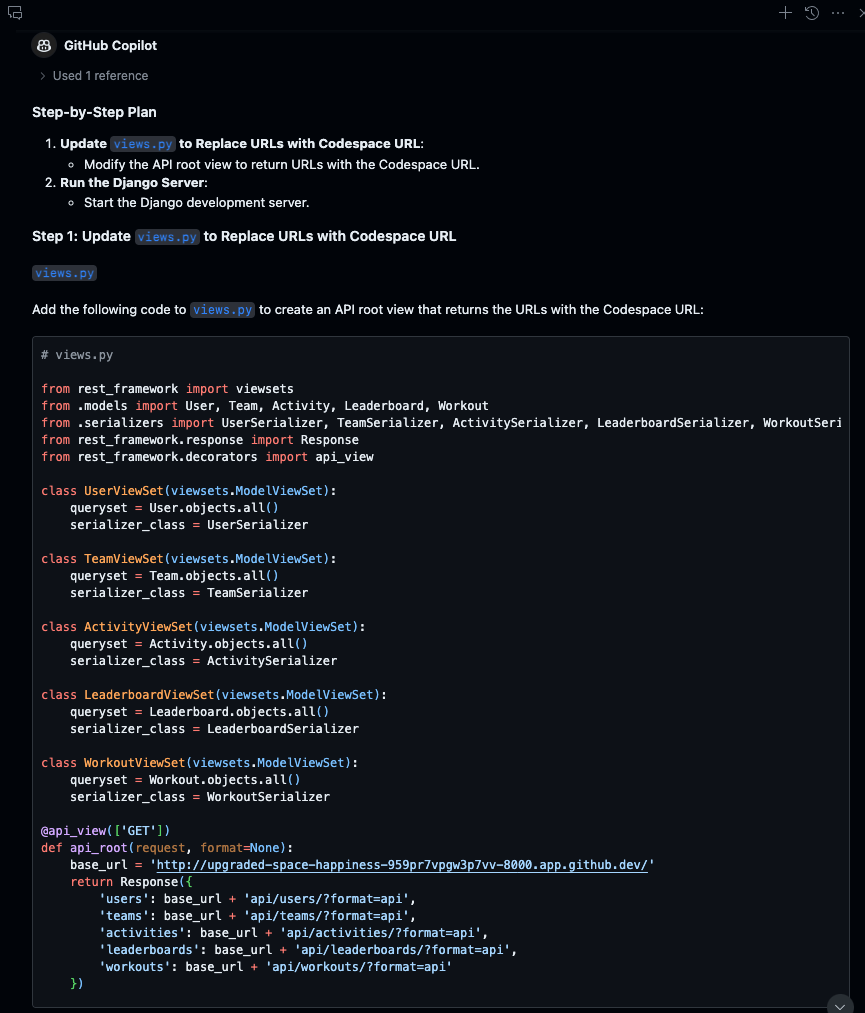
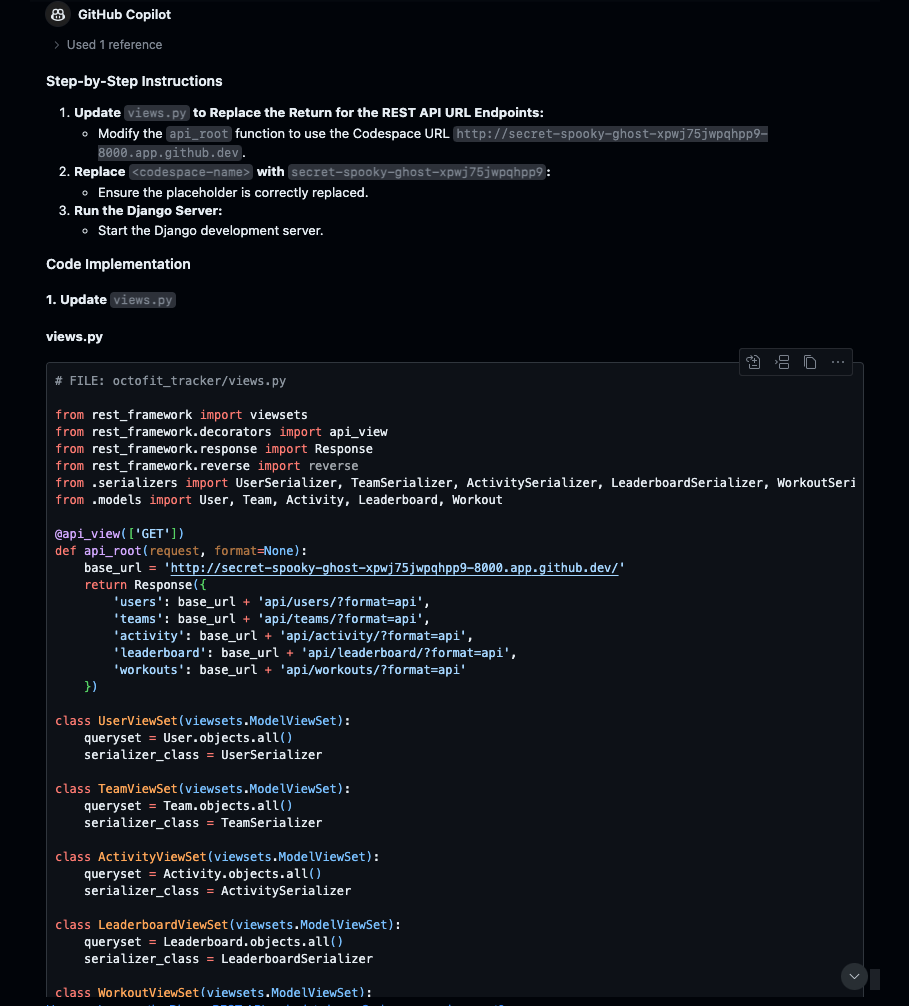
Refactor navigation links and update leaderboard name

diff --git a/docs/7_CodespaceDjangoRESTFramework/README.md b/docs/7_CodespaceDjangoRESTFramework/README.md
@@ -4,6 +4,8 @@
 
 Type the following prompt in GitHub Copilot Chat:
 
+> NOTE: Replace `[REPLACE-THIS-WITH-YOUR-CODESPACE-NAME]` with the name of your codespace
+
 ```text
 Let's do the following step by step
 
@@ -35,6 +37,54 @@ HTTP 200 OK Allow: GET, HEAD, OPTIONS Content-Type: application/json Vary: Accep
     "leaderboard": "http://<codespace-name>-8000.app.github.dev/api/leaderboard/?format=api",
     "workouts": "http://<codespace-name>-8000.app.github.dev/api/workouts/?format=api" 
 }
+```
+
+![update for codespace endpoint prompt](./7_1_CopilotPromptCodespaceEndpointPrompt.png)
+![update for codespace endpoint step 1](./7_2_CopilotPromptCodespaceEndpointStep1.png)
+![update for codespace endpoint step 2](./7_2_CopilotPromptCodespaceEndpointStep2.png)
+
+## Update to views.py
+
+```python
+# FILE: octofit_tracker/views.py
+
+from rest_framework import viewsets
+from rest_framework.decorators import api_view
+from rest_framework.response import Response
+from rest_framework.reverse import reverse
+from .serializers import UserSerializer, TeamSerializer, ActivitySerializer, LeaderboardSerializer, WorkoutSerializer
+from .models import User, Team, Activity, Leaderboard, Workout
+
+@api_view(['GET'])
+def api_root(request, format=None):
+    base_url = 'http://[REPLACE-THIS-WITH-YOUR-CODESPACE-NAME]-8000.app.github.dev/'
+    return Response({
+        'users': base_url + 'api/users/?format=api',
+        'teams': base_url + 'api/teams/?format=api',
+        'activity': base_url + 'api/activity/?format=api',
+        'leaderboard': base_url + 'api/leaderboard/?format=api',
+        'workouts': base_url + 'api/workouts/?format=api'
+    })
+
+class UserViewSet(viewsets.ModelViewSet):
+    queryset = User.objects.all()
+    serializer_class = UserSerializer
+
+class TeamViewSet(viewsets.ModelViewSet):
+    queryset = Team.objects.all()
+    serializer_class = TeamSerializer
+
+class ActivityViewSet(viewsets.ModelViewSet):
+    queryset = Activity.objects.all()
+    serializer_class = ActivitySerializer
+
+class LeaderboardViewSet(viewsets.ModelViewSet):
+    queryset = Leaderboard.objects.all()
+    serializer_class = LeaderboardSerializer
+
+class WorkoutViewSet(viewsets.ModelViewSet):
+    queryset = Workout.objects.all()
+    serializer_class = WorkoutSerializer
 ```
 
 [:arrow_backward: Previous: Populate DB data](../6_PopulateDBwData) | [Next: What's next :arrow_forward:](../8_WhatsNext/README.md)
